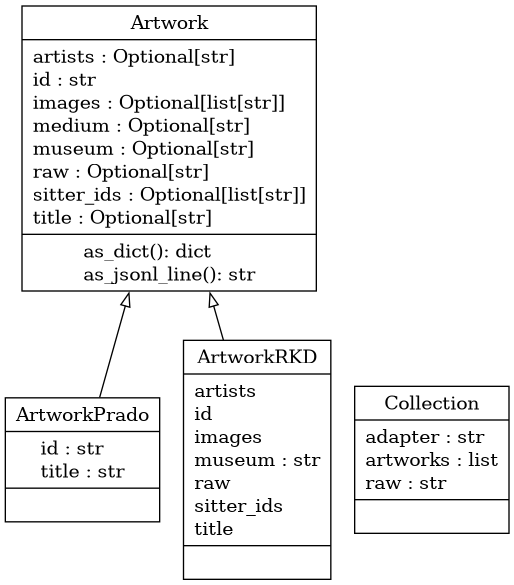
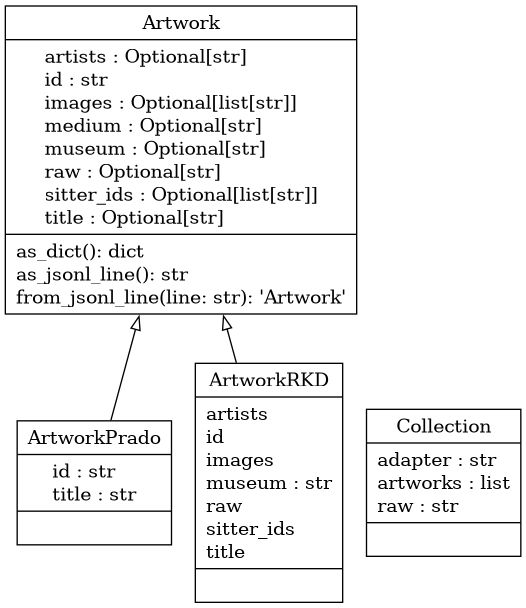
Add from_jsonl_line method to Artwork

Changed region(s): [[0.0, 0.0, 0.6848, 1.0], [0.6848, 0.6462, 0.9961, 0.9231]]

diff --git a/tests/test_classes.py b/tests/test_classes.py
@@ -6,6 +6,8 @@ from tests.conftest import IN_GITHUB_ACTIONS, rkd_path
 
 
 # --- Artwork -----------------------------------------------------------------
+EXAMPLE_JSONL_LINE = '{"id": "P000001", "title": "Las Meninas", "artists": "Diego Velázquez", "museum": "Prado", "medium": "oil on canvas", "images": ["https://example.org/img.jpg"], "sitter_ids": ["sitter-1"], "raw": null}'
+
 artwork = Artwork(
     id="P000001",
     museum="Prado",
@@ -25,7 +27,14 @@ def test_artwork_stores_fields():
 def test_artwork_as_jsonl_line():
     """An Artwork gets properly exported"""
     assert isinstance(artwork.as_dict(), dict)
-    assert artwork.as_jsonl_line() == '{"id": "P000001", "title": "Las Meninas", "artists": "Diego Velázquez", "museum": "Prado", "medium": "oil on canvas", "images": ["https://example.org/img.jpg"], "sitter_ids": ["sitter-1"], "raw": null}'
+    artwork.as_jsonl_line() == EXAMPLE_JSONL_LINE
+    assert artwork.id == "P000001"
+    assert artwork.sitter_ids == ["sitter-1"]
+    assert artwork.raw == None
+
+def test_artwork_from_jsonl_line():
+    artwork = Artwork(None)
+    artwork.from_jsonl_line(EXAMPLE_JSONL_LINE)
 
 # --- Collection --------------------------------------------------------------
 @pytest.mark.skipif(IN_GITHUB_ACTIONS, reason="Source file only available locally")

diff --git a/src/facesIO/classes.py b/src/facesIO/classes.py
@@ -13,6 +13,7 @@ import json
 from lxml import etree as ET
 from abc import ABC
 from dataclasses import dataclass, asdict
+from typing import Self
 
 from rdflib import Graph
 
@@ -64,6 +65,11 @@ class Artwork(ABC):
     def as_jsonl_line(self) -> str:
         """ Returns the artwork as a line ready to be appended to a jsonl file"""
         return json.dumps(asdict(self), ensure_ascii=False)
+
+    @classmethod # Like staticmethod, but inheritable
+    def from_jsonl_line(cls, line: str) -> Self:
+        """ Loads the artwork from a jsonl line """
+        return cls(**json.loads(line))
 
 @dataclass
 class ArtworkRKD(Artwork):
